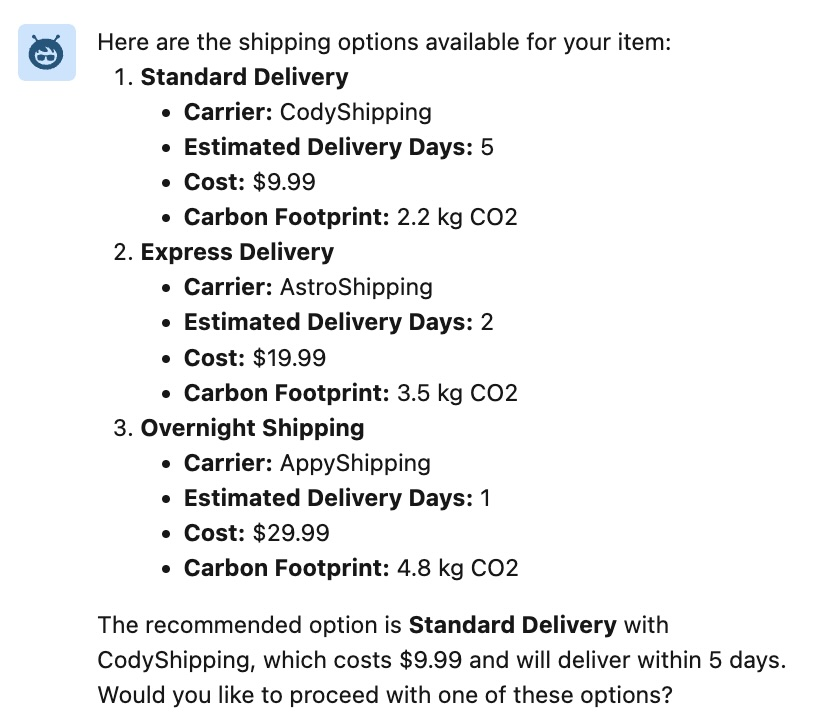
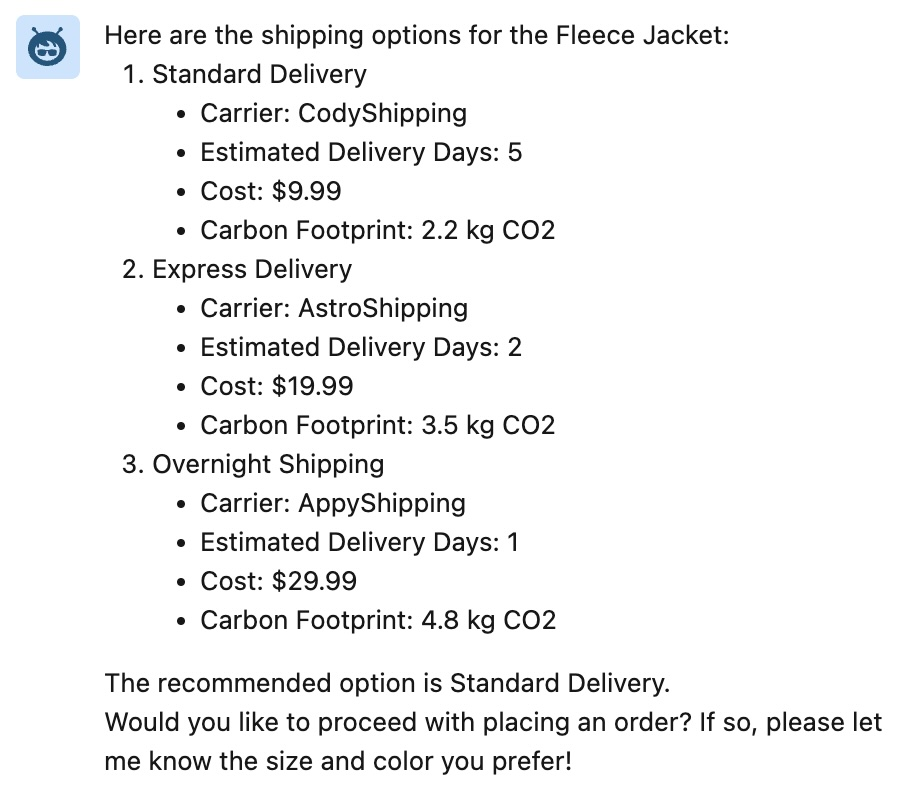
update

Changed region(s): [[0.0, 0.0, 0.9662, 0.9697]]

diff --git a/README.md b/README.md
@@ -72,13 +72,7 @@ In this workshop, we're enhancing several agents with custom code written in lan
 
 4. **Grant Permissions to the Heroku Application**
 
-    Ensure your Salesforce user has permission to invoke the application logic.
-
-    ```sh
-    sf org assign permset --name ActionsService -o my-org
-    ```
-
-    > The above command assumes you have already authenticated your org with the `sf` CLI using an alias of `my-org`. If this is not the case, use the `sf org login web --alias my-org` command to authenticate and then run the above command.
+    Ensure the Agent user has permission to invoke the Heroku application imported above. Search for **Permission Set Groups** under **Setup** and open the `TDX25 Minihacks Agent Access` permission set group. Add the `ActionsService` permission set to the group.
 
 5. **Deploy to Your Salesforce Org**
 
@@ -87,6 +81,7 @@ In this workshop, we're enhancing several agents with custom code written in lan
     ```sh
     sf project deploy start --metadata Flow -o my-org
     ```
+    > The above command assumes you have already authenticated your org with the `sf` CLI using an alias of `my-org`. If this is not the case, use the `sf org login web --alias my-org` command to authenticate with this alias or your chosen alias.
 
     > Support for using Heroku applications directly with Agentforce is being rolled out to our service. This step will be removed once this is complete.
 
@@ -109,7 +104,13 @@ This action uses flight information from Salesforce and CO₂ emissions data to 
     In **Agent Builder**, enter the following to invoke your action:
 
     ```
-    What is the total carbon footprint for my upcoming flight?
+    I want to travel from SFO to LAX
+    ```
+
+    Agent lists the available flights for the user to choose.
+
+    ```
+    What is the total carbon footprint for flight 1?
     ```
 
     <img src="images/agent-response-carbon-calc.jpg">
@@ -133,7 +134,13 @@ This action retrieves product information, including size and weight. It dynamic
     Enter the following in **Agent Builder**:
 
     ```
-    Can you recommend shipping options to get my item within a week for under $50?
+    I am looking for warm clothes?
+    ```
+
+    Agent responds with a list of options, enter the following:
+
+    ```
+    Can you recommend shipping options for item 1 so that I receive it within a week for under $50?
     ```
 
     <img src="images/agent-response-shipping-calc.jpg">
@@ -158,6 +165,20 @@ This action evaluates real-time car valuations from industry sources (AutoTrader
 
     ```
     I want to buy a car with a $1,000 down payment, a max 5% interest rate, and a term over 3 years. Can you provide a competitive finance estimate?
+    ```
+
+    When the Agent requests further information enter the following:
+
+    ```
+    My email is johndoe@codey.com
+    ```
+
+    ```
+    I like make Zig model M3
+    ```
+
+    ```
+    I choose 1
     ```
 
     <img src="images/agent-response-finance-calc.jpg">
